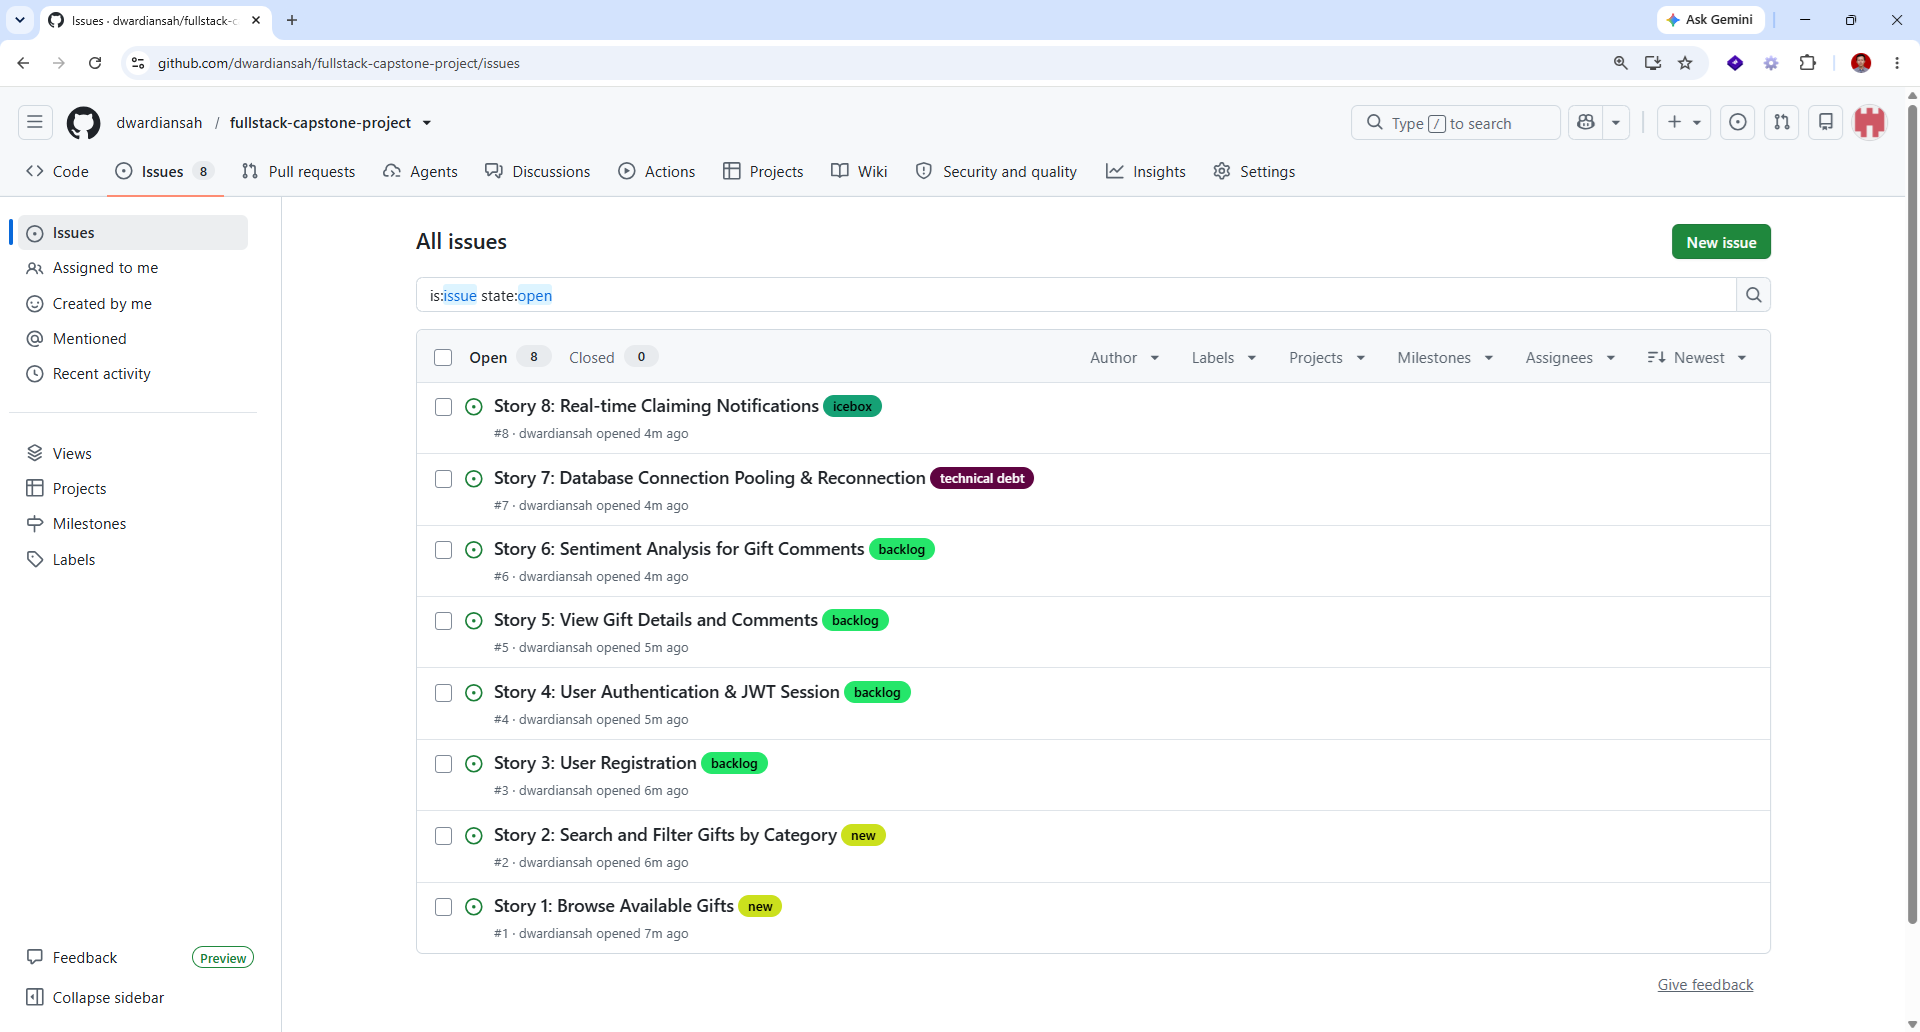
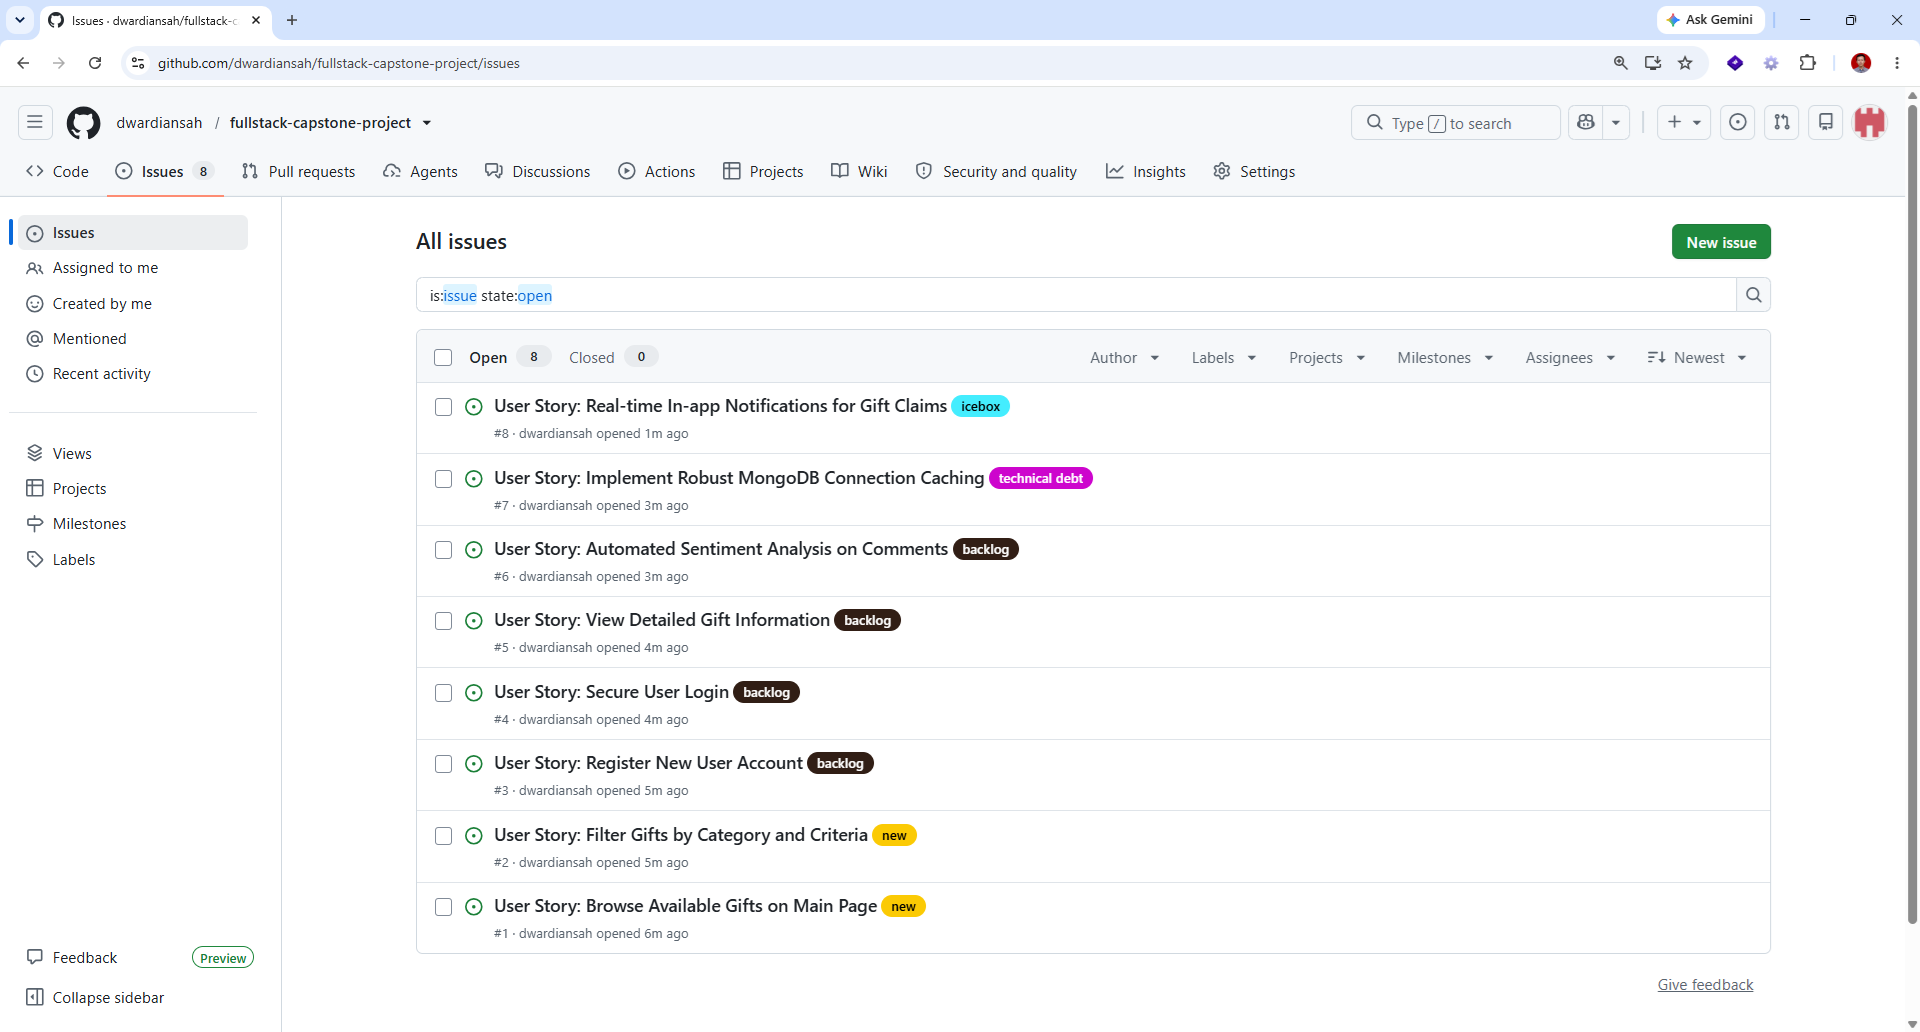
feat: implement CI/CD pipeline and project submission documentation

diff --git a/USER_STORIES.md b/USER_STORIES.md
@@ -1,0 +1,181 @@
+# GiftLink User Stories for GitHub Issues
+
+You need at least 8 user stories created under your GitHub repository's **Issues** tab. Each issue must have one of these labels: `new`, `icebox`, `technical debt`, or `backlog`.
+
+Here are the 8 pre-configured user stories with standard Agile structure and **Gherkin Acceptance Criteria** (`Given`, `When`, `Then`), ready to paste into GitHub Issues:
+
+---
+
+### Story 1: Browse Available Gifts
+- **Title**: User Story: Browse Available Gifts on Main Page
+- **Label**: `new`
+- **Body**:
+```markdown
+### Role
+As a community member seeking items,
+
+### Action
+I want to view a list of all available donated gifts on the main page,
+
+### Business Value
+So that I can easily discover gifts that fit my needs without having to create an account first.
+
+### Acceptance Criteria
+- [ ] Given a visitor opens the main catalog page, When gifts exist in the database, Then all 16 items are displayed with photos, titles, and categories.
+- [ ] Given the gifts list is rendered, When an item card is inspected, Then a sentiment badge based on user comments is displayed.
+- [ ] Given an item card on the main page, When the user clicks the item button, Then they are redirected to the item detail page.
+```
+
+---
+
+### Story 2: Search and Filter Gifts by Category
+- **Title**: User Story: Filter Gifts by Category and Criteria
+- **Label**: `new`
+- **Body**:
+```markdown
+### Role
+As a visitor looking for specific products,
+
+### Action
+I want to filter gifts by category, condition, age, and keyword,
+
+### Business Value
+So that I can quickly narrow down relevant items without scrolling through the entire catalog.
+
+### Acceptance Criteria
+- [ ] Given a user is on the search page, When they select a category from the dropdown, Then the results update dynamically to match that category.
+- [ ] Given a user specifies age and condition filters, When the search is submitted, Then only items matching all selected criteria are returned.
+- [ ] Given no gifts match the search query, When the results load, Then a friendly "No matching gifts found" message is displayed.
+```
+
+---
+
+### Story 3: User Registration
+- **Title**: User Story: Register New User Account
+- **Label**: `backlog`
+- **Body**:
+```markdown
+### Role
+As a new visitor to GiftLink,
+
+### Action
+I want to register an account with my name, email, and password,
+
+### Business Value
+So that I can log in, claim gifts, and leave comments.
+
+### Acceptance Criteria
+- [ ] Given valid registration details are entered, When the user submits the form, Then a new user is created and a JWT auth token is returned.
+- [ ] Given an email that is already registered, When registration is attempted, Then an error message stating "Email already registered" is shown.
+- [ ] Given a user registers, When the password is saved, Then the password is encrypted using bcrypt before database storage.
+```
+
+---
+
+### Story 4: User Authentication & JWT Session
+- **Title**: User Story: Secure User Login
+- **Label**: `backlog`
+- **Body**:
+```markdown
+### Role
+As a registered user,
+
+### Action
+I want to log into my account using my email and password,
+
+### Business Value
+So that I can authenticate my session securely and have my username displayed in the navbar.
+
+### Acceptance Criteria
+- [ ] Given registered credentials, When the login form is submitted, Then a valid JWT token is returned and stored in session storage.
+- [ ] Given a successful login, When the page refreshes, Then the user's first name is displayed in the navigation bar.
+- [ ] Given incorrect password or unverified email, When login is attempted, Then a 400/404 error message is displayed to the user.
+```
+
+---
+
+### Story 5: View Gift Details and Comments
+- **Title**: User Story: View Detailed Gift Information
+- **Label**: `backlog`
+- **Body**:
+```markdown
+### Role
+As an interested recipient,
+
+### Action
+I want to view complete details of a single gift including full description, date added, and comments,
+
+### Business Value
+So that I can verify item condition and make an informed decision before requesting it.
+
+### Acceptance Criteria
+- [ ] Given a gift ID in the route `/app/gift/:id`, When the page loads, Then item details (name, image, category, condition, age) are fetched via `/api/gifts/:id`.
+- [ ] Given an item with comments, When details page renders, Then all reviewer comments and their sentiment indicators are displayed.
+- [ ] Given an invalid or non-existent gift ID, When requested, Then a 404 Gift Not Found message is displayed.
+```
+
+---
+
+### Story 6: Sentiment Analysis for Gift Comments
+- **Title**: User Story: Automated Sentiment Analysis on Comments
+- **Label**: `backlog`
+- **Body**:
+```markdown
+### Role
+As a donor and administrator,
+
+### Action
+I want the backend to automatically analyze sentiment of comments using the Natural package,
+
+### Business Value
+So that positive and negative sentiment can be flagged for community safety and engagement.
+
+### Acceptance Criteria
+- [ ] Given a comment string, When passed to the sentiment service, Then the Natural package tokenizes and scores the sentiment accurately.
+- [ ] Given a positive comment, When scored, Then the sentiment returns "positive" and a green badge is rendered in the UI.
+- [ ] Given a negative comment, When scored, Then the sentiment returns "negative" and an alert badge is rendered.
+```
+
+---
+
+### Story 7: Database Connection Pooling & Reconnection
+- **Title**: User Story: Implement Robust MongoDB Connection Caching
+- **Label**: `technical debt`
+- **Body**:
+```markdown
+### Role
+As a backend developer,
+
+### Action
+I want to cache the MongoDB connection instance in `models/db.js`,
+
+### Business Value
+So that multiple requests do not create excessive database connections and degrade API performance.
+
+### Acceptance Criteria
+- [ ] Given `dbInstance` is already connected, When `connectToDatabase()` is called, Then the cached `dbInstance` is returned immediately without reconnecting.
+- [ ] Given no active database connection, When `connectToDatabase()` is first called, Then `await client.connect()` executes successfully.
+- [ ] Given the MongoDB server is unavailable, When connection is attempted, Then an informative error is logged and rethrown.
+```
+
+---
+
+### Story 8: Real-time Claiming Notifications
+- **Title**: User Story: Real-time In-app Notifications for Gift Claims
+- **Label**: `icebox`
+- **Body**:
+```markdown
+### Role
+As a donor who posted a gift,
+
+### Action
+I want to receive an instant real-time notification when another user claims my gift,
+
+### Business Value
+So that I can coordinate handover immediately without checking my email.
+
+### Acceptance Criteria
+- [ ] Given a user claims a gift, When claim is confirmed, Then an in-app notification is sent to the item's original donor.
+- [ ] Given an unread notification exists, When the user views the navbar, Then a notification badge indicator is displayed.
+- [ ] Given the user clicks on the notification, When inspected, Then the notification is marked as read.
+```

diff --git a/.github/ISSUE_TEMPLATE/user-story.md b/.github/ISSUE_TEMPLATE/user-story.md
@@ -18,6 +18,12 @@ So that **[I achieve a specific benefit, value, or outcome]**.
 ---
 
 ### Acceptance Criteria
-- [ ] Criterion 1
-- [ ] Criterion 2
-- [ ] Criterion 3
+```gherkin
+Given [context or initial condition]
+When [action is taken]
+Then [expected outcome occurs]
+```
+
+- [ ] Given [context or initial condition], When [action is taken], Then [expected outcome occurs]
+- [ ] Given [a user performs a task], When [data is submitted], Then [the system responds accordingly]
+- [ ] Given [invalid inputs are provided], When [submission is attempted], Then [an appropriate error is displayed]
